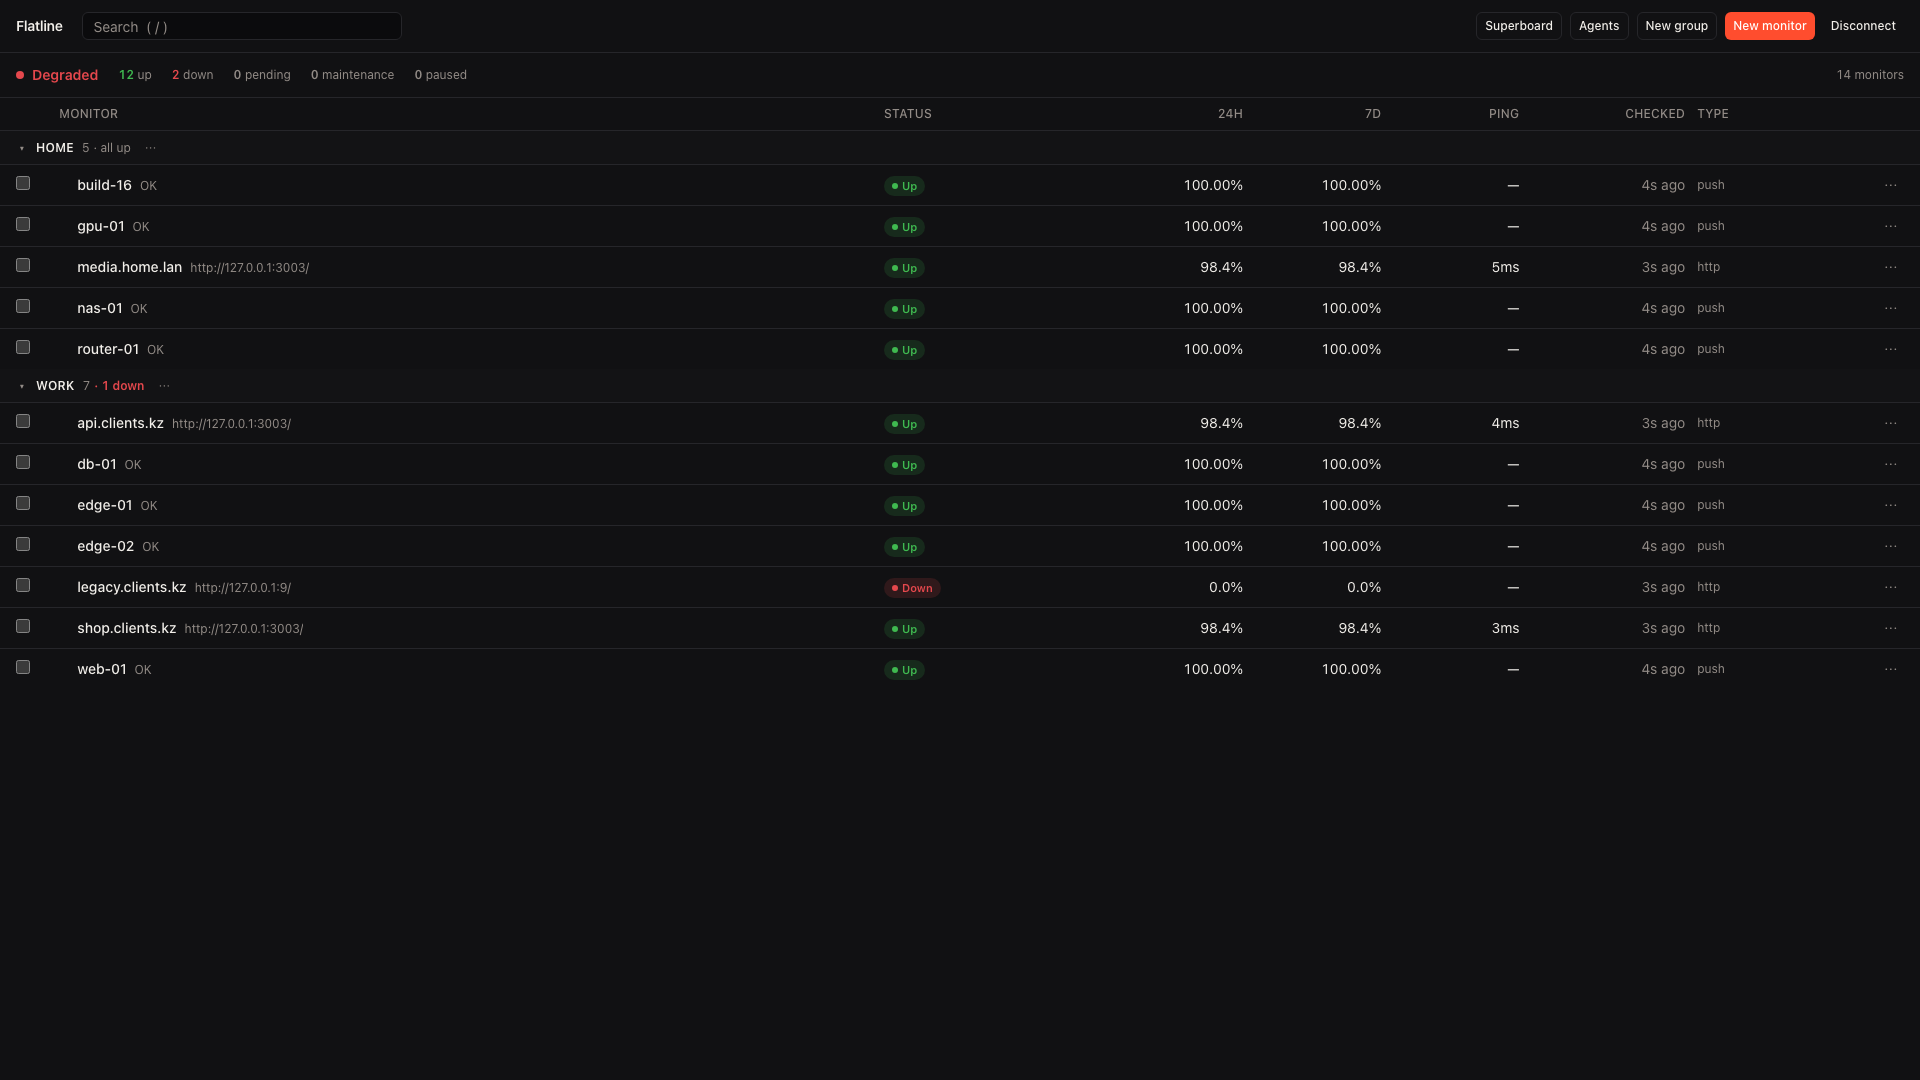
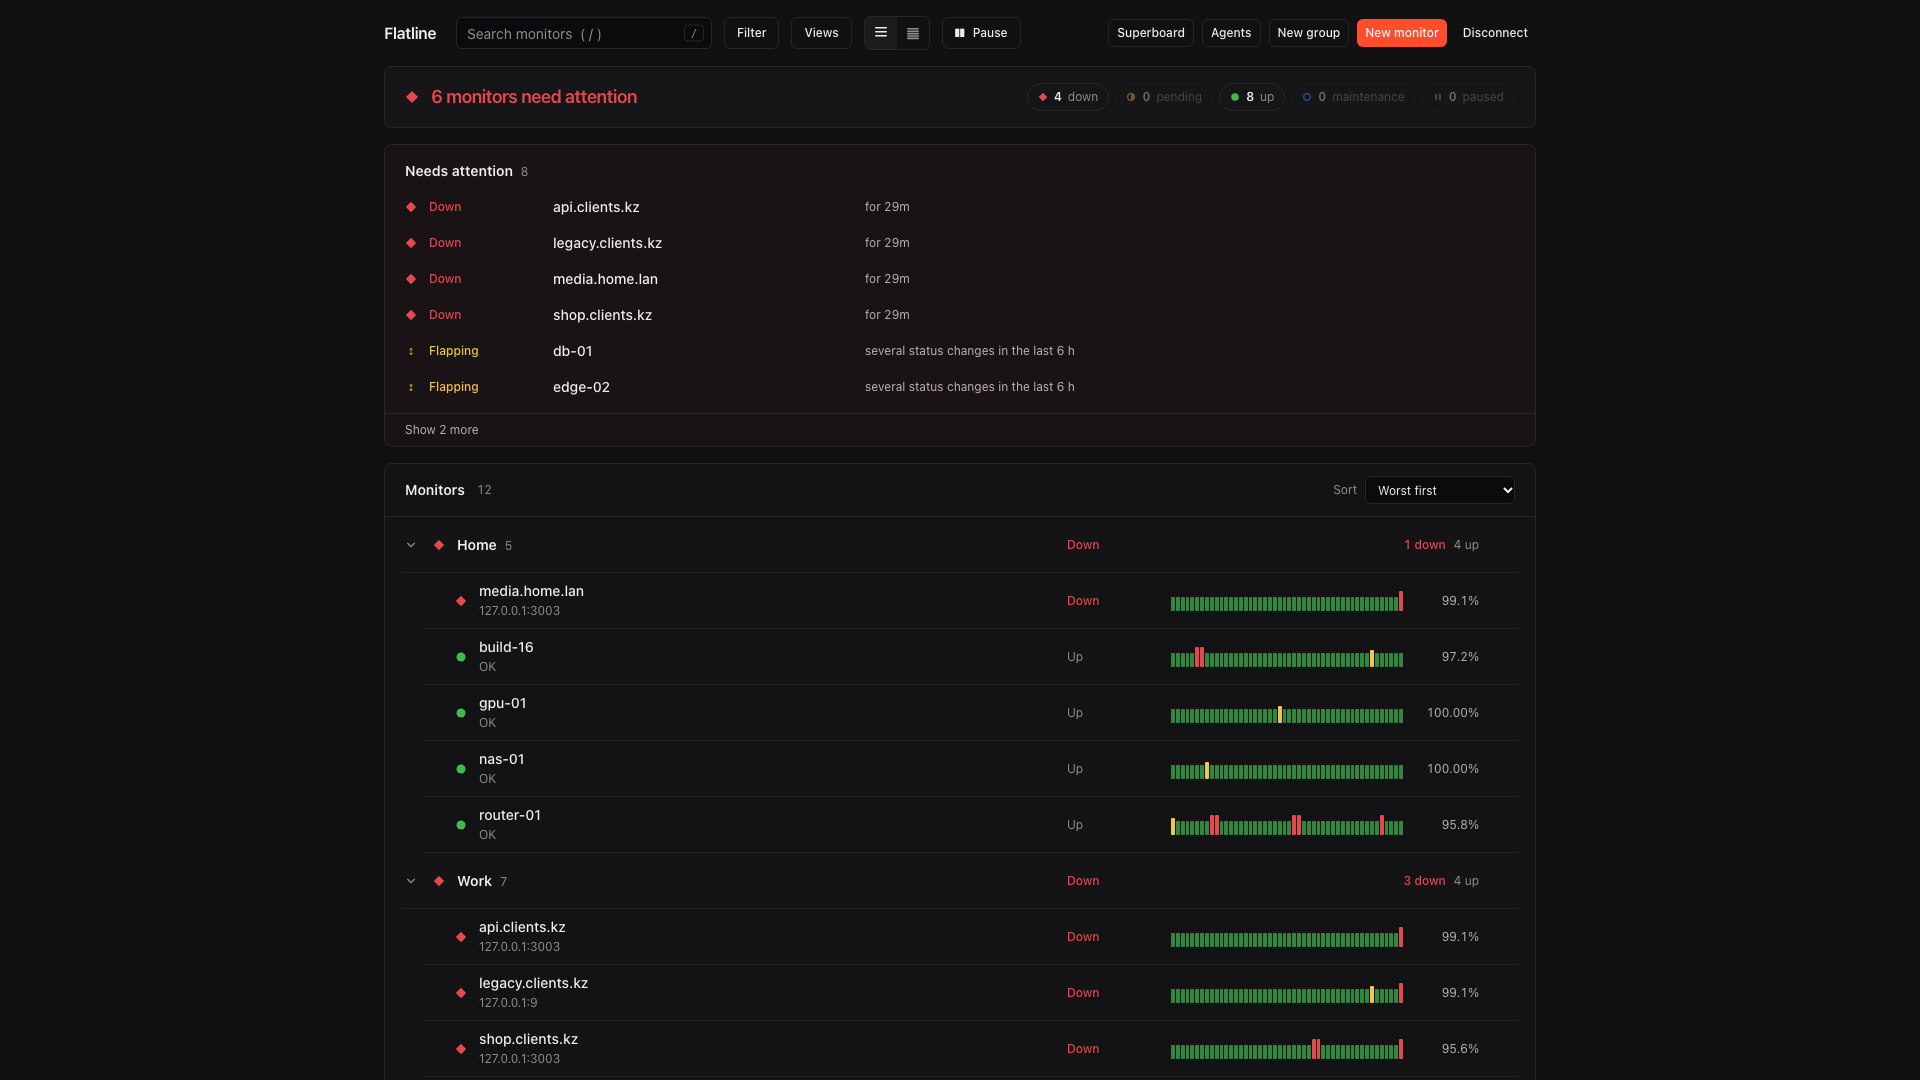
feat(board): cap the board width and refresh the documentation screenshot
On wide screens the name column stretched across the whole row, which put
the status and numbers far from the name they belong to.

diff --git a/apps/dashboard/src/components/Dashboard.tsx b/apps/dashboard/src/components/Dashboard.tsx
@@ -554,7 +554,7 @@ export function Dashboard() {
         <MotionProvider>
             <div className="flex min-h-screen">
                 <div className="min-w-0 flex-1">
-                    <div className="mx-auto max-w-[1480px]">
+                    <div className="mx-auto max-w-[1200px]">
                         <BoardHeader
                             query={filter.q}
                             onQuery={(q) => setFilter((prev) => ({ ...prev, q }))}

diff --git a/docs/screenshots/README.md b/docs/screenshots/README.md
@@ -5,11 +5,11 @@ fleet** rather than a production installation: the hosts, websites, container
 names and measurements all come from `superboard/mockagent`. Nothing here is
 hand-drawn, and no production database is opened.
 
-| Image            | Shows                                                                                                                                            |
-| ---------------- | ------------------------------------------------------------------------------------------------------------------------------------------------ |
-| `superboard.png` | The wall board: eight demo servers, per-core CPU squares, RAM/Disk rows, container rows, linked-website chips, update states and agent warnings. |
-| `dashboard.png`  | The operator dashboard: summary bar and the grouped monitor table, with one Down row.                                                            |
-| `history.png`    | The server history dialog on the 1h range: CPU, RAM, GPU and VRAM with mean, peak and p90/p95/p99.                                               |
+| Image            | Shows                                                                                                                                                                                                                                                              |
+| ---------------- | ------------------------------------------------------------------------------------------------------------------------------------------------------------------------------------------------------------------------------------------------------------------ |
+| `superboard.png` | The wall board: eight demo servers, per-core CPU squares, RAM/Disk rows, container rows, linked-website chips, update states and agent warnings.                                                                                                                   |
+| `dashboard.png`  | The operator board: status summary, the Needs-attention section, and the grouped list with 24 h heartbeat strips. The mock fleet is only minutes old, so a day of demo history (with a few outages) was written into the disposable dev database before capturing. |
+| `history.png`    | The server history dialog on the 1h range: CPU, RAM, GPU and VRAM with mean, peak and p90/p95/p99.                                                                                                                                                                 |
 
 ## Regenerating
 
